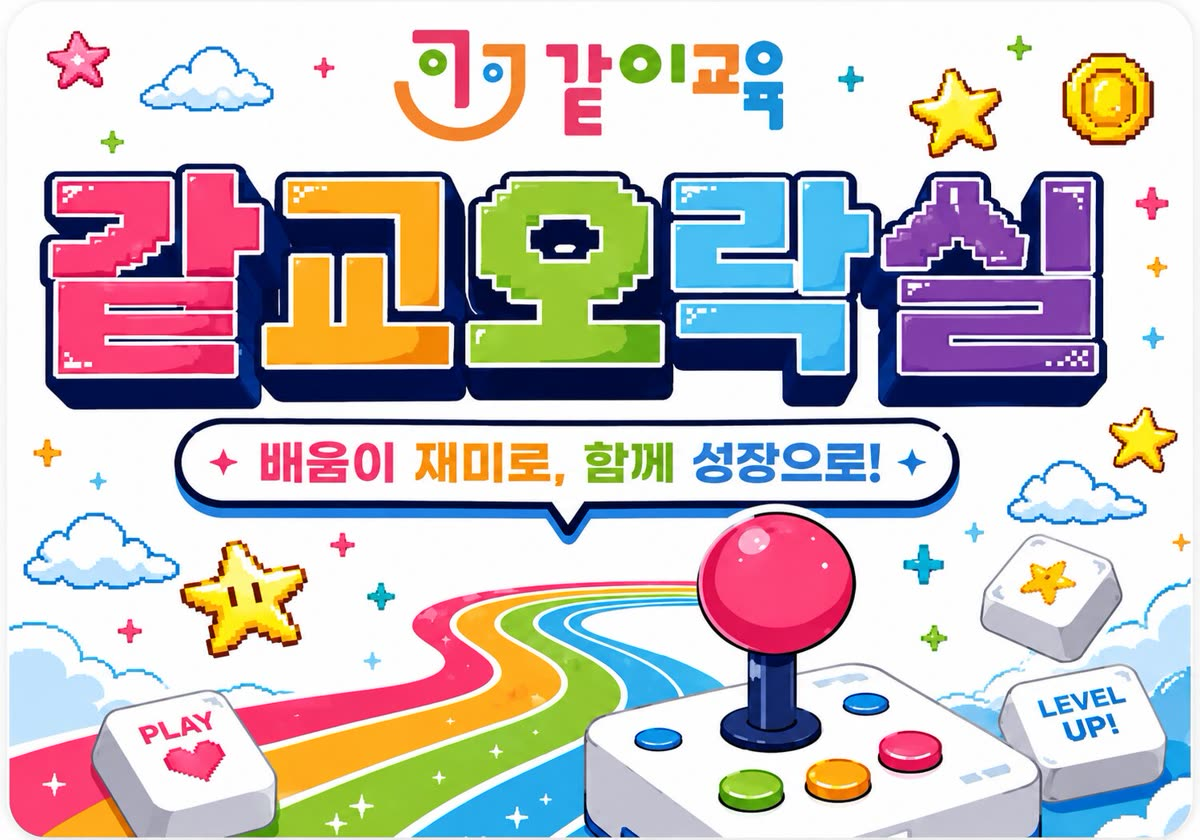
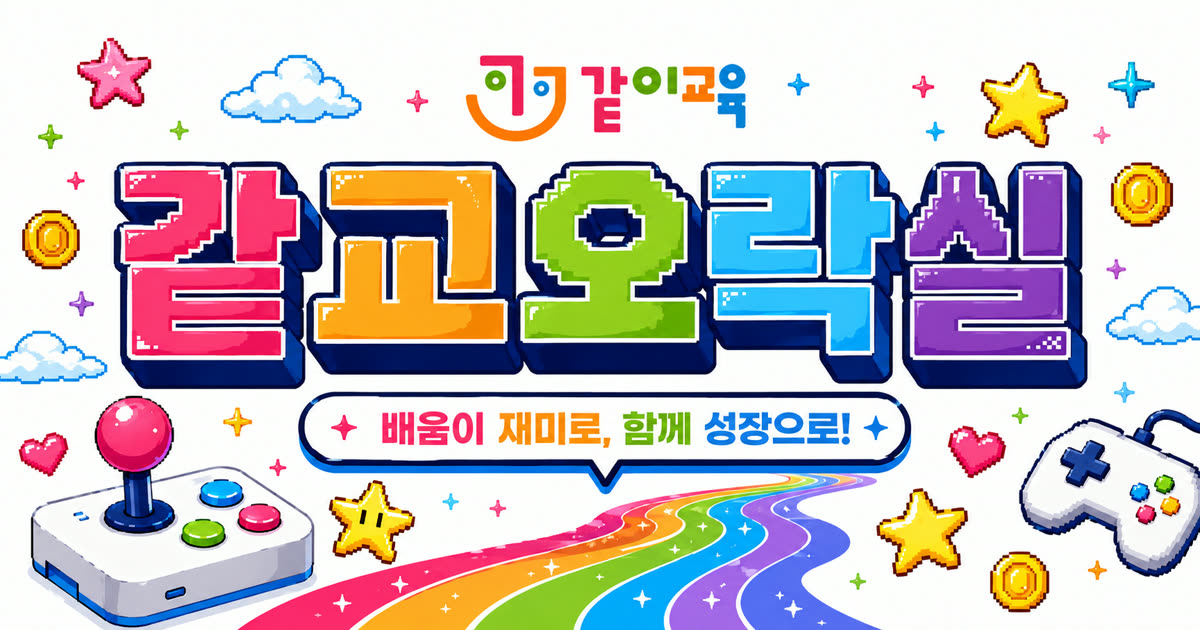
feat: 카톡 썸네일 와이드 배너로 교체 (1200x630)
세로로 잘리던 문제 해결 — 1.91:1 와이드 배너로 교체, 1200x630 jpg(194KB).
og:image:height 840→630 갱신.

diff --git a/index.html b/index.html
@@ -12,7 +12,7 @@
 <meta property="og:image" content="https://edutogether.kr/assets/og-thumb.jpg" />
 <meta property="og:image:type" content="image/jpeg" />
 <meta property="og:image:width" content="1200" />
-<meta property="og:image:height" content="840" />
+<meta property="og:image:height" content="630" />
 <meta name="twitter:card" content="summary_large_image" />
 <meta name="twitter:title" content="같교오락실 | 같이교육 체험관" />
 <meta name="twitter:description" content="같이교육에서 만든 앱을 함께 체험해보세요 !" />
